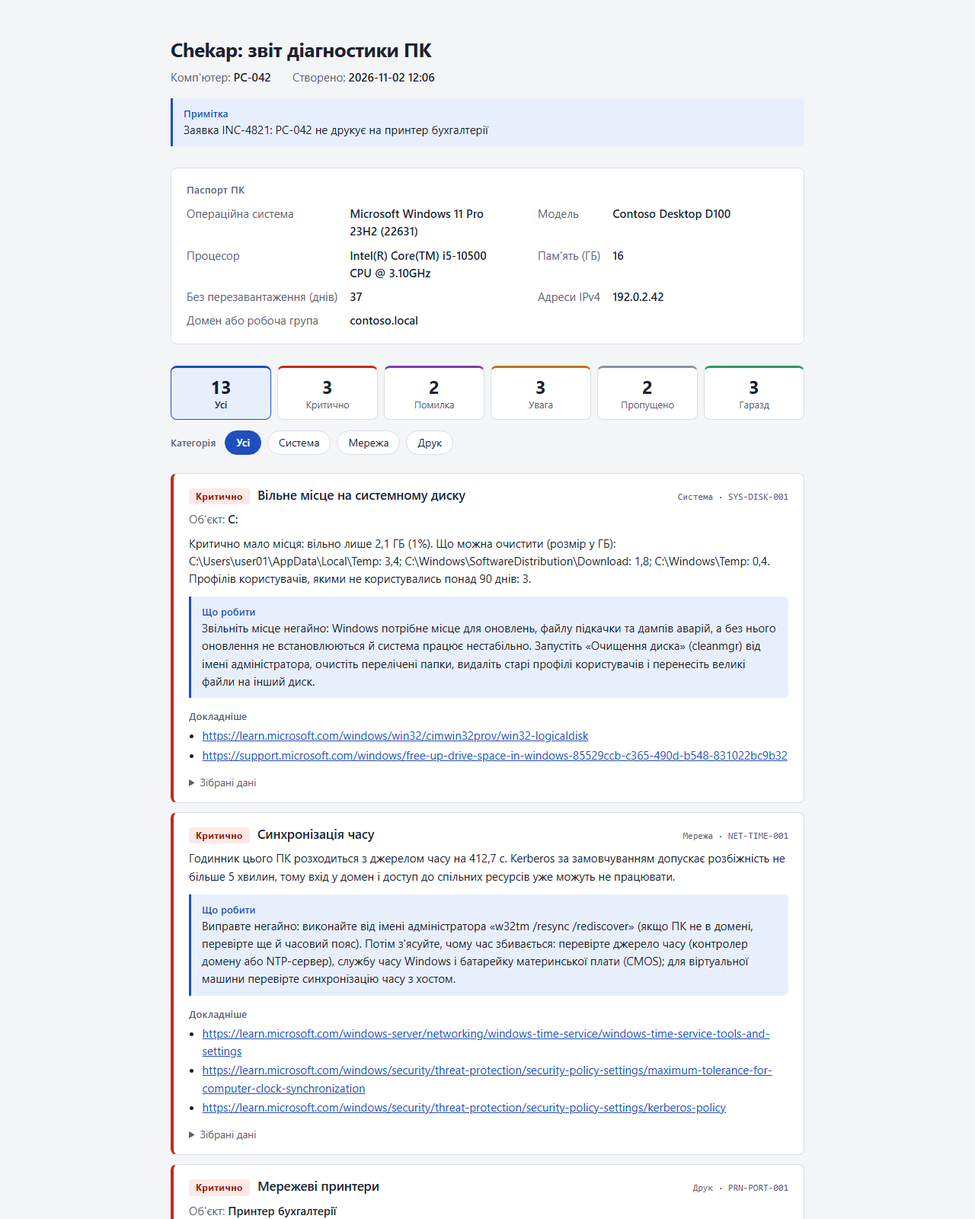
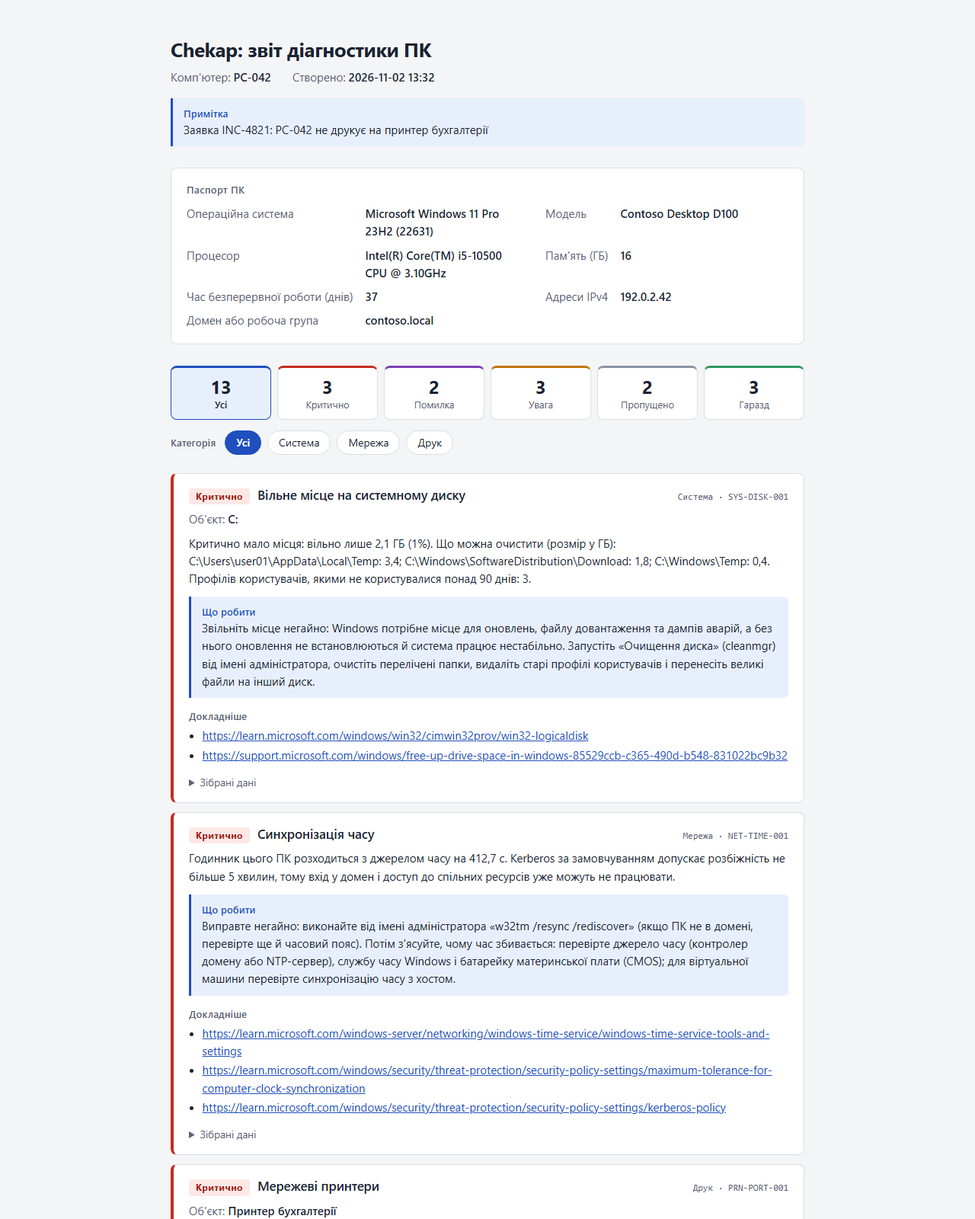
i18n: final language pass
Ukrainian: one term per notion (папка, час безперервної роботи, основний шлюз, файл довантаження, швидке завантаження, автозавантаження, Мережа та Інтернет, рекомендація), plain verbs instead of calques, no 'виправляти нічого' without 'не потрібно', Windows UI names in the recommendations. English: 'Affected item', no '1 days' (Days since the last restart: N), quoted commands, the isolated-subnet note for a missing gateway, the WPAD note for a direct connection, the Startup apps tab. The glossary, the Ukrainian help pages, README.uk.md, CONTRIBUTING (both languages, the Recommendation rule, the ASCII rule), the issue forms, the README check tables and both demo screenshots follow.

diff --git a/CONTRIBUTING.uk.md b/CONTRIBUTING.uk.md
@@ -2,11 +2,11 @@
 
 [English](CONTRIBUTING.md) | Українська
 
-Дякуємо, що допомагаєте. Chekap створено для сисадмінів малих і середніх мереж на Windows, і більшість його перевірок виросла з проблем, на які хтось натрапив на роботі. Якщо ви натрапили на таку проблему, ви можете додати перевірку для неї, і це займе приблизно десять хвилин.
+Дякуємо, що допомагаєте. Chekap створено для сисадмінів малих і середніх мереж на Windows, і більшість його перевірок виросла з проблем, з якими хтось стикався на роботі. Якщо ви стикнулися з такою проблемою, можете додати перевірку для неї, і це займе приблизно десять хвилин.
 
 ## Чим можна допомогти
 
-- **Помилка або хибна знахідка.** Створіть issue за формою для помилки. Вона просить замінити справжні імена комп'ютерів, IP-адреси й імена користувачів, перш ніж вставляти будь-який вивід.
+- **Помилка або помилкова знахідка.** Створіть issue за формою для помилки. Вона просить замінити справжні імена комп'ютерів, IP-адреси й імена користувачів, перш ніж вставляти будь-який вивід.
 - **Ідея перевірки.** Опишіть проблему й те, як її розпізнати на ПК, у формі «ідея перевірки». Писати код не обов'язково.
 - **Переклад або виправлення формулювання.** Скористайтеся формою для перекладу або створіть pull request зі змінами в таблицях рядків. Українські тексти мають читатися як проста, правильна українська мова, написана сисадміном. Див. [Формулювання та переклад](#формулювання-та-переклад).
 - **Нова перевірка.** Дотримуйтеся інструкцій у розділах нижче.
@@ -26,13 +26,13 @@ Set-ExecutionPolicy -Scope Process -ExecutionPolicy Bypass   # лише якщо
 
 ## Перевірка за 10 хвилин
 
-Перевірка — це один файл. Ядро не чіпають. Файл повертає хеш-таблицю з двома блоками коду: `Collect` читає дані з ПК, а `Evaluate` перетворює ці дані на висновок (вердикт). Третя частина, тексти, лежить у таблицях рядків.
+Перевірка — це один файл. Ядро змінювати не потрібно. Файл повертає хеш-таблицю з двома блоками коду: `Collect` читає дані з ПК, а `Evaluate` перетворює ці дані на висновок (вердикт). Третя частина, тексти, лежить у таблицях рядків.
 
 ### 1. Виберіть Id і створіть файл
 
-Файл називається `Chekap/Checks/<Category>/<Id>.ps1`. Id має вигляд `CAT-NAME-001`; його ніколи не перекладають і не використовують повторно. `Id` усередині файлу має збігатися з іменем файлу, а `Category` — з іменем папки (у версії 0.1 це `System`, `Network` або `Printing`); тести перевіряють і те, і те. Нова категорія потребує більше змін (рядок `Category.<Name>`, список `-Category` у `Invoke-ChekapAudit`, зазвичай нова команда `Test-Chekap<Name>`), тож спершу запитайте в issue.
+Файл називається `Chekap/Checks/<Category>/<Id>.ps1`. Id має вигляд `CAT-NAME-001`; його ніколи не перекладають і не використовують повторно. `Id` усередині файлу має збігатися з іменем файлу, а `Category` — з іменем папки (у версії 0.1 це `System`, `Network` або `Printing`); тести перевіряють і те, і інше. Нова категорія потребує більше змін (рядок `Category.<Name>`, список `-Category` у `Invoke-ChekapAudit`, зазвичай нова команда `Test-Chekap<Name>`), тож спершу запитайте в issue.
 
-Візьміть за основу цю справжню перевірку: скопіюйте її й змініть:
+Візьміть за основу цю справжню перевірку — скопіюйте її та змініть:
 
 ```powershell
 @{
@@ -77,11 +77,12 @@ Set-ExecutionPolicy -Scope Process -ExecutionPolicy Bypass   # лише якщо
 
 - **`Collect` повертає лише прості дані:** рядки, числа, булеві значення, `[datetime]`, масиви й хеш-таблиці. Enum перетворюйте на `[string]`. CIM-об'єкти не повертайте ніколи.
 - **`Collect` не розбирає локалізований вивід.** Читайте CIM, реєстр або `Get-WinEvent -FilterHashtable` (беріть `Properties[n]`, а не текст повідомлення). Вбудовані утиліти (`w32tm`, `powercfg`) викликайте лише за іменем, без шляху, щоб Pester міг їх підмінити, і читайте лише їхній числовий або XML-вивід.
-- **До мережі звертайтеся лише через хелпери з таймаутом:** `Test-ChekapPing`, `Test-ChekapTcpPort`, `Test-ChekapDnsServer` у `Chekap/Private/Collect/`.
+- **До мережі звертайтеся лише через допоміжні функції з тайм-аутом:** `Test-ChekapPing`, `Test-ChekapTcpPort`, `Test-ChekapDnsServer` у `Chekap/Private/Collect/`.
 - **`Evaluate` — чиста функція:** жодних системних викликів. Можна використовувати лише `ForEach-Object`, `Where-Object`, `Sort-Object`, `Select-Object`, `Measure-Object` і `Group-Object`.
 - **Кожен вердикт — це літерал хеш-таблиці** з літеральними `Status` (`OK`, `Warning`, `Critical` або `Skipped`) і `Message`. Необов'язкові ключі: `Args` (значення для `{0}`, `{1}` у тексті), `Target` (об'єкт, якого стосується знахідка, наприклад `D:` або назва принтера) і `Evidence` (дані для показу; без нього показується весь результат `Collect`). `Evaluate` може повернути кілька вердиктів, наприклад по одному на кожен принтер. `Error` — не вердикт: це те, що повідомляє ядро, коли блок завершується винятком.
 - **Блок оголошує лише ті параметри, які використовує:** `param($Settings)` у `Collect`, `param($Data)` або `param($Data, $Settings)` в `Evaluate`.
 - **Порогові значення — в `Settings`**, а не в коді `Evaluate`.
+- **Код перевірки містить лише ASCII.** Тире для «немає даних», знак множення чи будь-який інший символ, який бачить користувач, мають бути в таблицях рядків, окремим повідомленням; тест не пропустить символ з кодом понад 127 у `Chekap/**/*.ps1`.
 - **У `References` є щонайменше одне посилання `https://`** на документацію Microsoft або інше авторитетне джерело.
 - **Лише синтаксис Windows PowerShell 5.1:** без `??`, `?:`, `?.`, `&&`, `||` і без `ForEach-Object -Parallel`. Без `Invoke-Expression`, без `Win32_Product`, без сторонніх модулів.
 - **Перевірка лише читає.** Усьому, що змінює ПК, у версії 0.1 не місце.
@@ -95,7 +96,7 @@ Set-ExecutionPolicy -Scope Process -ExecutionPolicy Bypass   # лише якщо
 |---|---|
 | `<Id>.Title` | Назва перевірки |
 | `<Id>.<Message>.Details` | Що знайдено, для кожного `Message` перевірки |
-| `<Id>.<Message>.Recommendation` | Що робити. Обов'язковий для кожного `Message`, який не `OK` |
+| `<Id>.<Message>.Recommendation` | Що робити. Обов'язковий, якщо статус вердикту не `OK` |
 
 Уривок з української таблиці для перевірки вище (у справжній таблиці є ще ключі для `Ok` і `LongFastStartup`):
 
@@ -119,7 +120,7 @@ Set-ExecutionPolicy -Scope Process -ExecutionPolicy Bypass   # лише якщо
 
 ### 5. Кодування
 
-Усі файли `.ps1`, `.psm1` і `.psd1` — це UTF-8 **з BOM**; без нього Windows PowerShell 5.1 ламає кирилицю. Створивши файли, виконайте:
+Усі файли `.ps1`, `.psm1` і `.psd1` — це UTF-8 **з BOM**; без нього Windows PowerShell 5.1 спотворює кирилицю. Створивши файли, виконайте:
 
 ```powershell
 ./tools/Add-Bom.ps1
@@ -144,7 +145,7 @@ Invoke-ChekapAudit -CheckId <Id> -OutputPath out/try -Verbose
 ./build.ps1 -Task Test -TestPath tests/Checks/System.Tests.ps1
 ```
 
-Запускайте одне завдання за раз, як це робить CI. З `powershell -File build.ps1` список через кому, як-от `-Task Lint,Test`, надходить одним рядком, тож для списку використовуйте `-Command`. Тести мають проходити у Windows PowerShell 5.1 і в PowerShell 7, тож запустіть обидва:
+Запускайте одне завдання за раз, як це робить CI. З `powershell -File build.ps1` список через кому, як-от `-Task Lint,Test`, надходить одним рядком, тому для списку використовуйте `-Command`. Тести мають проходити у Windows PowerShell 5.1 і в PowerShell 7; запустіть збірку в обох:
 
 ```powershell
 powershell -NoProfile -File build.ps1
@@ -163,18 +164,18 @@ pwsh -NoProfile -File build.ps1
 
 ## Зміни в команді або в її довідці
 
-Довідка — це markdown у `docs/en/` і `docs/uk/` (формат platyPS); коментарів-довідки в коді немає. Змінивши параметри публічної команди, оновіть сторінку команди в обох папках. Спершу імпортуйте platyPS і модуль (`Import-Module platyPS -RequiredVersion 0.14.2; Import-Module ./Chekap/Chekap.psd1 -Force`); тоді `Update-MarkdownHelp -Path docs/en` виправить структуру. Далі відредагуйте англійські тексти, а українську сторінку напишіть вручну. Тести порівнюють описані параметри зі справжніми. Збірка релізу перетворює сторінки на довідку модуля.
+Довідка — це markdown у `docs/en/` і `docs/uk/` (формат platyPS); довідки в коментарях коду немає. Змінивши параметри публічної команди, оновіть сторінку команди в обох папках. Спершу імпортуйте platyPS і модуль (`Import-Module platyPS -RequiredVersion 0.14.2; Import-Module ./Chekap/Chekap.psd1 -Force`); тоді `Update-MarkdownHelp -Path docs/en` виправить структуру. Далі відредагуйте англійські тексти, а українську сторінку напишіть вручну. Тести порівнюють описані параметри зі справжніми. Збірка релізу перетворює сторінки на довідку модуля.
 
 ## Формулювання та переклад
 
-У [docs/glossary.md](docs/glossary.md) зібрано слова, які вживаються в обох мовах (перевірка, знахідка, «Що робити», Print Spooler, шлюз та інші). Користуйтеся ними, а запроваджуючи нове слово, додайте його туди. Українською: короткі прості речення, без дослівного перекладу з англійської, а назви вікон і кнопок Windows — такі, як в українській Windows. Тести перевіряють, що в обох таблицях рядків однакові ключі й однакові заповнювачі `{n}`; чи текст добрий, вони перевірити не можуть, тож прочитайте його вголос.
+У [docs/glossary.md](docs/glossary.md) зібрано терміни та їхні відповідники в обох мовах (перевірка, знахідка, рекомендація, Print Spooler, шлюз та інші). Користуйтеся ними, а запроваджуючи нове слово, додайте його туди. Українською: короткі прості речення, без дослівного перекладу з англійської, а назви вікон і кнопок Windows — такі, як в українській Windows. Тести перевіряють, що в обох таблицях рядків однакові ключі й однакові заповнювачі `{n}`; чи текст добрий, вони перевірити не можуть, тож прочитайте його вголос.
 
 ## Коміти та pull request
 
 - Невеликі коміти з повідомленнями за [Conventional Commits](https://www.conventionalcommits.org/): `feat:`, `fix:`, `docs:`, `i18n:`, `test:`, `ci:`, `chore:`.
 - Одна зміна в одному pull request. Заповніть контрольний список із шаблону.
 - CI має бути зеленим у Windows PowerShell 5.1 і в PowerShell 7.
-- Перш ніж надсилати, перегляньте свої зміни: чи немає в них справжніх імен комп'ютерів, IP-адрес і імен користувачів.
+- Перш ніж надсилати, перегляньте свої зміни: чи немає в них справжніх імен комп'ютерів, IP-адрес та імен користувачів.
 
 ## Правила, які діють завжди
 

diff --git a/docs/uk/Test-ChekapNetwork.md b/docs/uk/Test-ChekapNetwork.md
@@ -17,11 +17,11 @@ Test-ChekapNetwork [[-Language] <String>] [[-CheckId] <String[]>] [<CommonParame
 ```
 
 ## DESCRIPTION
-Виконує перевірки категорії Network і повертає по одному об'єкту Chekap.CheckResult на кожну знахідку. Перевіряється таке: мережевий адаптер і його швидкість, IP-адреса від DHCP (автоматична адреса 169.254.x.x означає, що жоден DHCP-сервер не відповів), DNS-сервери, перетворення імен, шлюз за замовчуванням, доступ до інтернету, налаштування проксі-сервера, профіль мережі (Public, Private чи Domain) і синхронізація часу (годинник, що сильно розходиться з еталонним, ламає Kerberos і TLS).
+Виконує перевірки категорії Network і повертає по одному об'єкту Chekap.CheckResult на кожну знахідку. Перевіряється таке: мережевий адаптер і його швидкість, IP-адреса від DHCP (автоматична адреса 169.254.x.x означає, що жоден DHCP-сервер не відповів), DNS-сервери, перетворення імен, основний шлюз, доступ до інтернету, налаштування проксі-сервера, профіль мережі (Public, Private чи Domain) і синхронізація часу (годинник, що сильно розходиться з еталонним, порушує роботу Kerberos і TLS).
 
-Перевірки нічого не змінюють і не потребують прав адміністратора. Вони звертаються до мережі: ping шлюзу за замовчуванням, DNS-запит до кожного з ваших DNS-серверів, з'єднання з проксі-сервером, якщо його вказано, один запит до вашого джерела точного часу, перетворення імені www.microsoft.com на адресу (а на ПК у домені ще й імені домену) та одне з'єднання з портом 443 www.microsoft.com для перевірки доступу до інтернету. Ping, DNS-запити й TCP-з'єднання обмежені коротким часом очікування, тож сервер, який не відповідає, не змусить перевірку зависнути. Запит часу виконує стандартна утиліта w32tm, яка має власний час очікування.
+Перевірки нічого не змінюють і не потребують прав адміністратора. Вони звертаються до мережі: ping основного шлюзу, DNS-запит до кожного з ваших DNS-серверів, з'єднання з проксі-сервером, якщо його вказано, один запит до вашого джерела точного часу, перетворення імені www.microsoft.com на адресу (а на ПК у домені ще й імені домену) та одне з'єднання з www.microsoft.com на порту 443 для перевірки доступу до інтернету. Ping, DNS-запити й TCP-з'єднання обмежені коротким часом очікування, тож сервер, який не відповідає, не змусить перевірку зависнути. Запит часу виконує стандартна утиліта w32tm, яка має власний час очікування.
 
-Кожен результат має Status: OK, Warning, Critical, Error (перевірка не змогла завершитися) або Skipped (перевірка не стосується цього ПК). Значення Status завжди англійською, щоб скрипти працювали за будь-якої мови. Title, Details і Recommendation подаються мовою текстів: мовою з параметра Language; якщо його не вказано — мовою, збереженою командою Set-ChekapConfig; якщо й її немає — мовою інтерфейсу Windows.
+Кожен результат має Status: OK, Warning, Critical, Error (перевірка не змогла завершитися) або Skipped (перевірка не стосується цього ПК). Значення Status завжди англійською, щоб скрипти працювали за будь-якої мови. Мову Title, Details і Recommendation визначає параметр Language; якщо його не вказано — мова, збережена командою Set-ChekapConfig; якщо й її немає — мова інтерфейсу Windows.
 
 ## EXAMPLES
 

diff --git a/docs/uk/Test-ChekapHealth.md b/docs/uk/Test-ChekapHealth.md
@@ -17,11 +17,11 @@ Test-ChekapHealth [[-Language] <String>] [[-CheckId] <String[]>] [<CommonParamet
 ```
 
 ## DESCRIPTION
-Виконує перевірки категорії System і повертає по одному об'єкту Chekap.CheckResult на кожну знахідку. Одна перевірка може дати кілька знахідок, наприклад по одній на кожну батарею. Перевіряється таке: час безперервної роботи, очікуване перезавантаження, вільне місце на системному диску, навантаження процесора й пам'яті, пам'ять і файл підкачки, аварії із синім екраном, аварійні вимкнення, збої програм, програми в автозапуску та знос батареї.
+Виконує перевірки категорії System і повертає по одному об'єкту Chekap.CheckResult на кожну знахідку. Одна перевірка може дати кілька знахідок, наприклад по одній на кожну батарею. Перевіряється таке: час безперервної роботи, очікуване перезавантаження, вільне місце на системному диску, навантаження процесора й пам'яті, пам'ять і файл довантаження, аварії із синім екраном, аварійні вимкнення, збої програм, програми автозавантаження та знос батареї.
 
-Перевірки лише читають дані. Вони нічого не змінюють у налаштуваннях і не потребують прав адміністратора, але без них частина перевірок отримує менше даних: теку з дампами аварій можуть читати лише адміністратори. Перевірка батареї просить у powercfg звіт у тимчасовому файлі в теці %TEMP% і одразу видаляє цей файл.
+Перевірки лише читають дані. Вони нічого не змінюють у налаштуваннях і не потребують прав адміністратора, але без них частина перевірок отримує менше даних: папку з дампами аварій можуть читати лише адміністратори. Перевірка батареї просить у powercfg звіт у тимчасовому файлі в папці %TEMP% і одразу видаляє цей файл.
 
-Кожен результат має Status: OK, Warning, Critical, Error (перевірка не змогла завершитися) або Skipped (перевірка не стосується цього ПК, наприклад, немає батареї). Значення Status завжди англійською, щоб скрипти працювали за будь-якої мови. Title, Details і Recommendation подаються мовою текстів: мовою з параметра Language; якщо його не вказано — мовою, збереженою командою Set-ChekapConfig; якщо й її немає — мовою інтерфейсу Windows.
+Кожен результат має Status: OK, Warning, Critical, Error (перевірка не змогла завершитися) або Skipped (перевірка не стосується цього ПК, наприклад, немає батареї). Значення Status завжди англійською, щоб скрипти працювали за будь-якої мови. Мову Title, Details і Recommendation визначає параметр Language; якщо його не вказано — мова, збережена командою Set-ChekapConfig; якщо й її немає — мова інтерфейсу Windows.
 
 ## EXAMPLES
 

diff --git a/docs/uk/Test-ChekapPrinting.md b/docs/uk/Test-ChekapPrinting.md
@@ -21,7 +21,7 @@ Test-ChekapPrinting [[-Language] <String>] [[-CheckId] <String[]>] [<CommonParam
 
 Перевірки лише читають дані. Жодна з них не змінює ПК і не потребує прав адміністратора. До мережевих принтерів і серверів друку вони відкривають коротке TCP-з'єднання з портом кожного принтера; на кожен принтер і на всі разом відведено обмежений час. Віртуальні принтери, як-от PDF, не перевіряються. Назви документів та імена користувачів із черг друку не збираються. Драйвери, які ніхто не використовує, лише показуються, але не видаляються.
 
-Кожен результат має Status: OK, Warning, Critical, Error (перевірка не змогла завершитися) або Skipped (перевірка не може виконатися або не стосується цього ПК, наприклад, сканера немає або службу Print Spooler зупинено). Значення Status завжди англійською, щоб скрипти працювали за будь-якої мови. Title, Details і Recommendation подаються мовою текстів: мовою з параметра Language; якщо його не вказано — мовою, збереженою командою Set-ChekapConfig; якщо й її немає — мовою інтерфейсу Windows.
+Кожен результат має Status: OK, Warning, Critical, Error (перевірка не змогла завершитися) або Skipped (перевірка не може виконатися або не стосується цього ПК, наприклад, сканера немає або службу Print Spooler зупинено). Значення Status завжди англійською, щоб скрипти працювали за будь-якої мови. Мову Title, Details і Recommendation визначає параметр Language; якщо його не вказано — мова, збережена командою Set-ChekapConfig; якщо й її немає — мова інтерфейсу Windows.
 
 ## EXAMPLES
 

diff --git a/docs/glossary.md b/docs/glossary.md
@@ -14,7 +14,7 @@ The Ukrainian column is the form as it stands in the Ukrainian texts, so a noun 
 |---|---|---|
 | check | перевірка | all checks, menu |
 | finding | знахідка | help (`docs/uk`), reports |
-| what to do (recommendation) | Що робити | `Report.Recommendation` |
+| recommendation | рекомендація | in the prose of the texts; the heading in the report and the menu is «Що робити» (`Report.Recommendation`) |
 | collected data (evidence) | Зібрані дані | `Report.Evidence` |
 | object (target) | Об'єкт | `Report.Target` |
 | learn more (references) | Докладніше | `Report.References` |
@@ -32,14 +32,14 @@ The Ukrainian column is the form as it stands in the Ukrainian texts, so a noun 
 | administrator rights | права адміністратора | `Core.Skipped.NotAdmin.*` |
 | uptime | Час безперервної роботи | `SYS-UPTIME-001.Title` |
 | pending restart | Очікуване перезавантаження | `SYS-REBOOT-001.Title` |
-| Fast Startup | швидкий запуск | `SYS-UPTIME-001.LongFastStartup.*` |
-| page file | файл підкачки | `SYS-MEMORY-001.Title` |
+| Fast Startup | швидке завантаження | `SYS-UPTIME-001.LongFastStartup.*` |
+| page file | файл довантаження | `SYS-MEMORY-001.Title` |
 | application crashes | Збої програм | `SYS-APPCRASH-001.Title` |
 | blue screen crashes | Аварії із синім екраном | `SYS-BSOD-001.Title` |
 | unexpected shutdowns | Аварійні вимкнення | `SYS-SHUTDOWN-001.Title` |
-| startup programs | Програми в автозапуску | `SYS-STARTUP-001.Title` |
+| startup programs | Програми автозавантаження | `SYS-STARTUP-001.Title` |
 | network adapter | Мережевий адаптер | `NET-ADAPTER-001.Title` |
-| default gateway | Шлюз за замовчуванням | `NET-GATEWAY-001.Title` |
+| default gateway | Основний шлюз | `NET-GATEWAY-001.Title` |
 | DNS server | DNS-сервер | `NET-DNS-001.*` |
 | name resolution | Перетворення імен | `NET-DNS-002.Title` |
 | proxy server | Проксі-сервер | `NET-PROXY-001.Title` |

diff --git a/docs/uk/Start-Chekap.md b/docs/uk/Start-Chekap.md
@@ -17,7 +17,7 @@ Start-Chekap [<CommonParameters>]
 ```
 
 ## DESCRIPTION
-Показує у вікні PowerShell нумероване меню: 1 — усі перевірки, 2 — Система: стан ПК, 3 — Мережа, 4 — Друк, 5 — усі перевірки та звіт у файл (HTML і JSON), 6 — змінити мову (українська чи англійська), 0 — вихід. Після запуску меню показує кількість знахідок за статусами, а під нею кожну знахідку, крім «Гаразд», від найсерйозніших: статус, що знайдено, і рекомендацію. Щоб повернутися до меню, натисніть Enter.
+Показує у вікні PowerShell нумероване меню: 1 — усі перевірки, 2 — Система: стан ПК, 3 — Мережа, 4 — Друк, 5 — усі перевірки та звіт у файл (HTML і JSON), 6 — змінити мову (українська чи англійська), 0 — вихід. Після запуску меню показує кількість знахідок за статусами, а під нею кожну знахідку, крім «Гаразд», від найсерйозніших: статус, що знайдено, і рекомендацію. Рекомендація — це конкретна дія, а не загальна порада. Щоб повернутися до меню, натисніть Enter.
 
 Пункт 5 зберігає звіт у папці Chekap у вашій папці «Документи», ніколи не перезаписуючи попередній звіт, і відкриває HTML-файл у браузері за замовчуванням. Пункт 6 зберігає вибрану мову командою Set-ChekapConfig, тож наступного разу меню відкриється цією мовою. Під час запуску меню бере збережену мову, а якщо її немає, мову інтерфейсу Windows.
 

diff --git a/docs/uk/Set-ChekapConfig.md b/docs/uk/Set-ChekapConfig.md
@@ -17,7 +17,7 @@ Set-ChekapConfig [-Language] <String> [-WhatIf] [-Confirm] [<CommonParameters>]
 ```
 
 ## DESCRIPTION
-Записує файл налаштувань %APPDATA%\Chekap\config.json для поточного користувача й за потреби створює його теку. Поки що єдине налаштування — мова перевірок, звітів і меню. Файл — звичайний текст UTF-8. Права адміністратора не потрібні, інших користувачів ПК команда не зачіпає.
+Записує файл налаштувань %APPDATA%\Chekap\config.json для поточного користувача й за потреби створює для нього папку. Поки що єдине налаштування — мова перевірок, звітів і меню. Файл — звичайний текст UTF-8. Права адміністратора не потрібні, інших користувачів ПК команда не зачіпає.
 
 Параметр Language, вказаний безпосередньо в команді, завжди має перевагу над збереженим налаштуванням. Що збережено, покаже Get-ChekapConfig.
 
@@ -30,7 +30,7 @@ Set-ChekapConfig [-Language] <String> [-WhatIf] [-Confirm] [<CommonParameters>]
 Set-ChekapConfig -Language uk
 ```
 
-Зберігає українську. Відтепер усі команди Chekap і меню працюють українською, якщо команді не вказати власний Language.
+Зберігає українську. Відтепер усі команди Chekap і меню працюють українською, якщо в команді не задано параметр Language.
 
 ### Приклад 2: Подивитися, що буде записано
 ```powershell

diff --git a/CONTRIBUTING.md b/CONTRIBUTING.md
@@ -82,6 +82,7 @@ Start from this real check. Copy it and change it:
 - **Every verdict is a hashtable literal** with a literal `Status` (`OK`, `Warning`, `Critical` or `Skipped`) and a literal `Message`. Optional keys: `Args` (values for `{0}`, `{1}` in the text), `Target` (the object the finding is about, such as `D:` or a printer name) and `Evidence` (the data to show; without it the whole `Collect` result is shown). `Evaluate` may return several verdicts, for example one for each printer. `Error` is not a verdict: it is what the core reports when a block throws.
 - **A block declares only the parameters it uses:** `param($Settings)` in `Collect`, `param($Data)` or `param($Data, $Settings)` in `Evaluate`.
 - **Thresholds go to `Settings`**, not into the code of `Evaluate`.
+- **The code of a check is ASCII only.** A dash for "no data", a multiplication sign or any other glyph that the user sees belongs in the string tables, as a message of its own; a test fails on a character above 127 in `Chekap/**/*.ps1`.
 - **`References` has at least one `https://` link** to the Microsoft documentation or another authoritative source.
 - **Syntax of Windows PowerShell 5.1 only:** no `??`, `?:`, `?.`, `&&`, `||` and no `ForEach-Object -Parallel`. No `Invoke-Expression`, no `Win32_Product`, no other modules.
 - **A check only reads.** Anything that changes the PC does not belong in version 0.1.
@@ -95,7 +96,7 @@ The texts are never in the code. Add the keys to `Chekap/en-US/Chekap.strings.ps
 |---|---|
 | `<Id>.Title` | The name of the check |
 | `<Id>.<Message>.Details` | What was found, for every `Message` of the check |
-| `<Id>.<Message>.Recommendation` | What to do. Required for every `Message` that is not `OK` |
+| `<Id>.<Message>.Recommendation` | What to do. Required when the Status of the verdict is not `OK` |
 
 An excerpt of the English table for the check above (the real table also has the keys for `Ok` and `LongFastStartup`):
 

diff --git a/README.uk.md b/README.uk.md
@@ -79,7 +79,7 @@ Set-ChekapConfig -Language uk
 | `NET-DHCP-001` | Мережа | IP-адреса від DHCP | ні |
 | `NET-DNS-001` | Мережа | DNS-сервери | ні |
 | `NET-DNS-002` | Мережа | Перетворення імен | ні |
-| `NET-GATEWAY-001` | Мережа | Шлюз за замовчуванням | ні |
+| `NET-GATEWAY-001` | Мережа | Основний шлюз | ні |
 | `NET-INTERNET-001` | Мережа | Доступ до інтернету | ні |
 | `NET-PROFILE-001` | Мережа | Профіль мережі | ні |
 | `NET-PROXY-001` | Мережа | Проксі-сервер | ні |
@@ -95,11 +95,11 @@ Set-ChekapConfig -Language uk
 | `SYS-BATTERY-001` | Система | Знос батареї | ні |
 | `SYS-BSOD-001` | Система | Аварії із синім екраном (BSOD) | ні |
 | `SYS-DISK-001` | Система | Вільне місце на системному диску | ні |
-| `SYS-MEMORY-001` | Система | Пам'ять і файл підкачки | ні |
+| `SYS-MEMORY-001` | Система | Пам'ять і файл довантаження | ні |
 | `SYS-PERF-001` | Система | Навантаження процесора й пам'яті | ні |
 | `SYS-REBOOT-001` | Система | Очікуване перезавантаження | ні |
 | `SYS-SHUTDOWN-001` | Система | Аварійні вимкнення | ні |
-| `SYS-STARTUP-001` | Система | Програми в автозапуску | ні |
+| `SYS-STARTUP-001` | Система | Програми автозавантаження | ні |
 | `SYS-UPTIME-001` | Система | Час безперервної роботи | ні |
 <!-- checks:end -->
 

diff --git a/docs/en/Start-Chekap.md b/docs/en/Start-Chekap.md
@@ -17,7 +17,7 @@ Start-Chekap [<CommonParameters>]
 ```
 
 ## DESCRIPTION
-Shows a numbered menu in the PowerShell window: 1 all checks, 2 System: PC health, 3 Network, 4 Printing, 5 all checks and a report file (HTML and JSON), 6 switch between Ukrainian and English, 0 exit. After a run the menu prints the number of findings for each status and then every finding that is not OK, the most serious first, with its status label, what was found and the recommendation. Press Enter to go back to the menu.
+Shows a numbered menu in the PowerShell window: 1 all checks, 2 System: PC health, 3 Network, 4 Printing, 5 all checks and a report file (HTML and JSON), 6 switch between Ukrainian and English, 0 exit. After a run the menu prints the number of findings for each status and then every finding that is not OK, the most serious first, with its status label, what was found and the recommendation. A recommendation is a concrete action, not general advice. Press Enter to go back to the menu.
 
 Item 5 saves the report to the Chekap folder inside your Documents folder, never overwriting an earlier report, and opens the HTML file in the default browser. Item 6 saves the chosen language with Set-ChekapConfig, so the next start uses it. At the start the menu uses the saved language or, without one, the language of the Windows interface.
 
